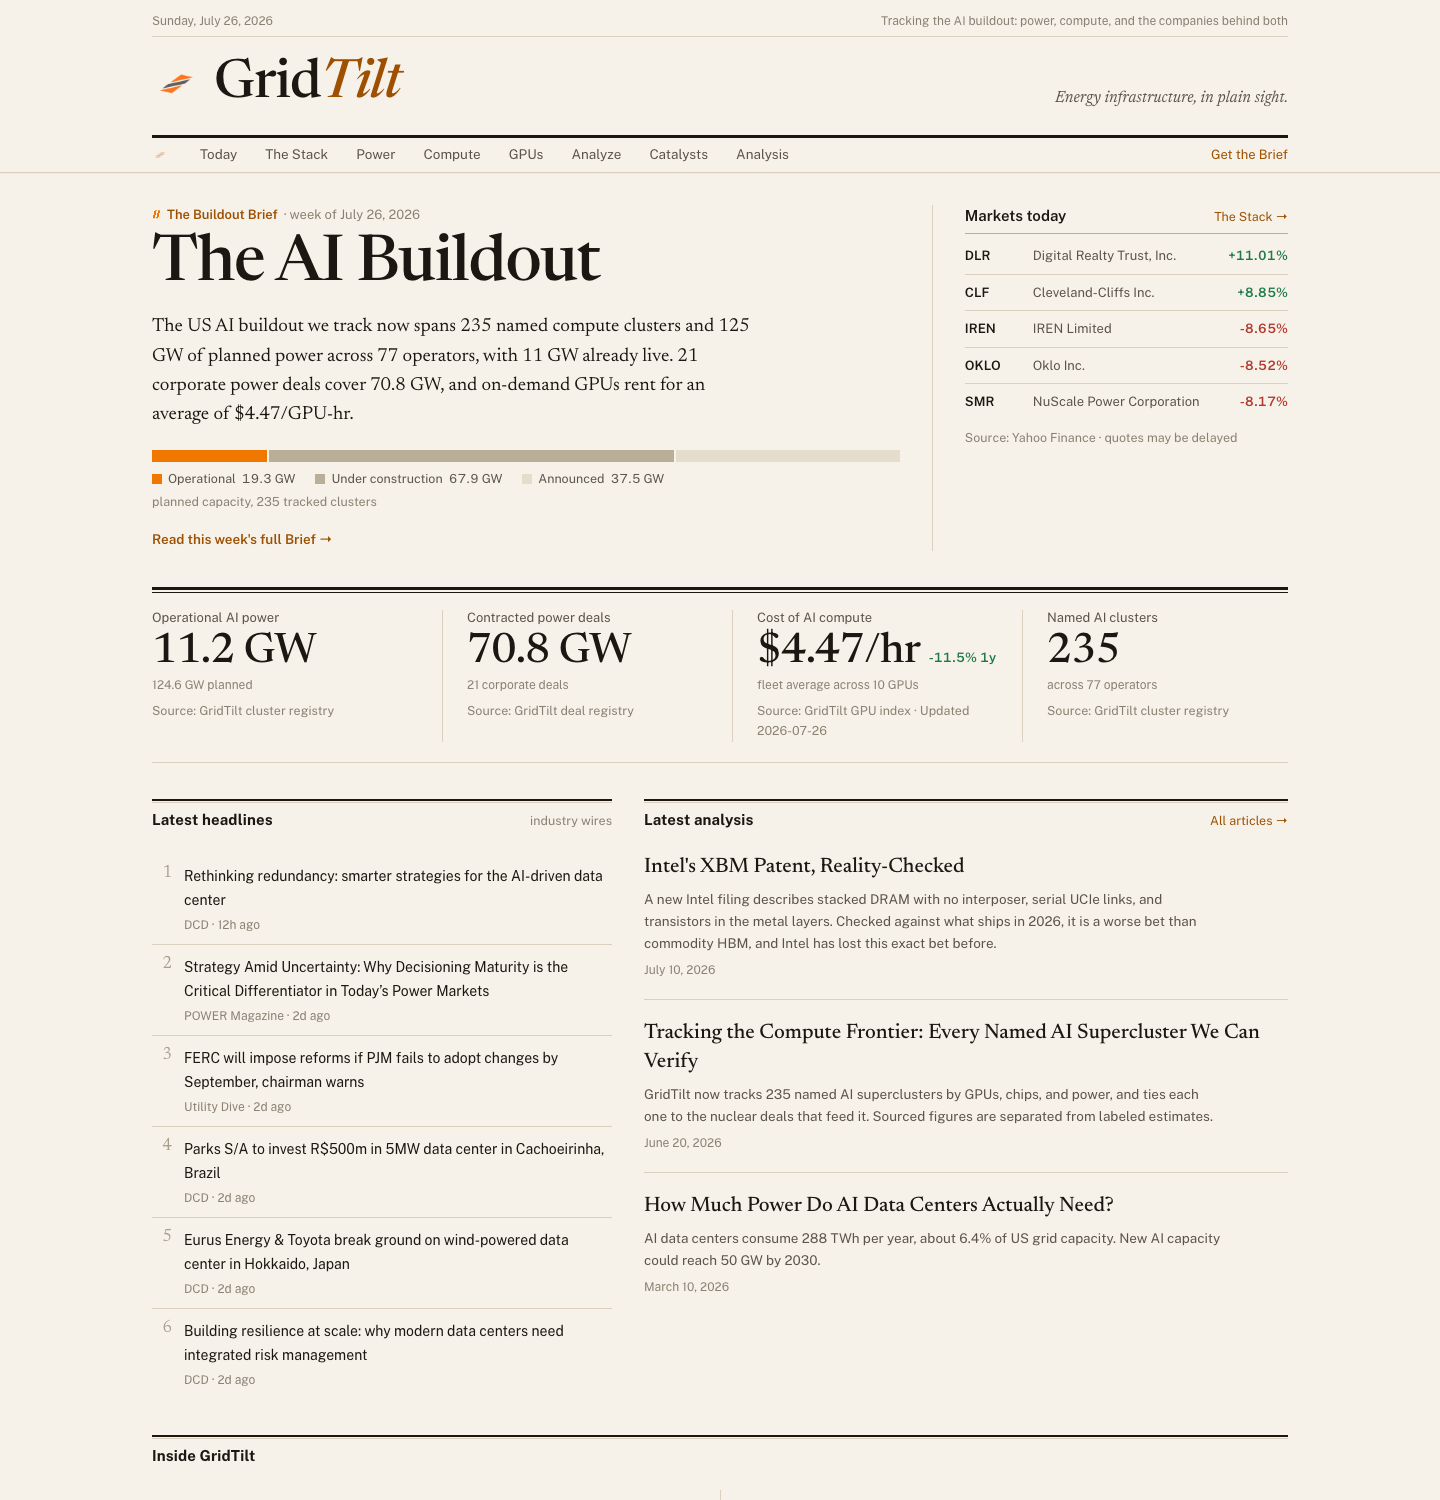
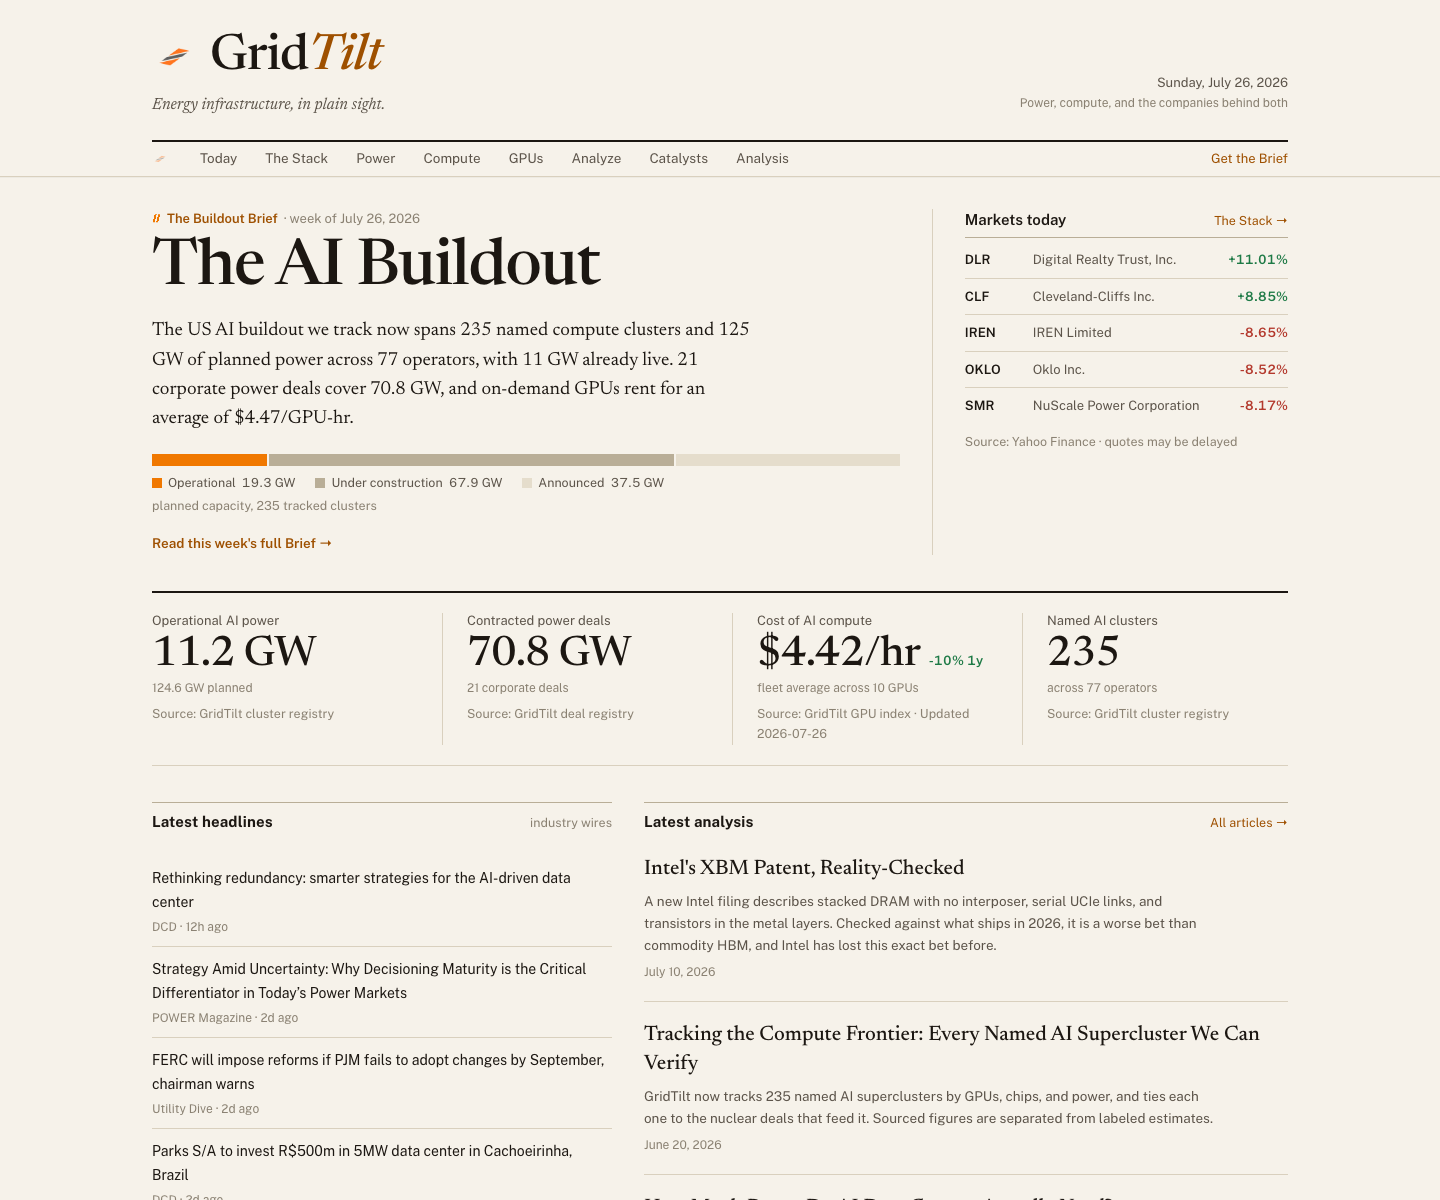
design: pull back the newspaper ornament, keep the scale
Double Scotch rules become single clean strokes, dateline bar removed
(date sits quietly right of the brand), headline folio numerals dropped,
section index renamed. Display scale, optical sizing, tilt glyph, and
column dividers stay.

diff --git a/client/src/components/masthead.tsx b/client/src/components/masthead.tsx
@@ -33,17 +33,10 @@ export function Masthead() {
 
   return (
     <header data-testid="masthead">
-      {/* Brand block: scrolls away. Dateline rides a hairline above the
-          wordmark; a Scotch rule closes the block, broadsheet style. */}
+      {/* Brand block: scrolls away. One confident ink rule closes it. */}
       <div>
         <div className="mx-auto max-w-[1200px] px-5 sm:px-8">
-          <div className="flex items-baseline justify-between gap-4 border-b border-rule pt-3 pb-1.5 text-[12px] text-ink-muted">
-            <span>{dateline()}</span>
-            <span className="hidden sm:inline">
-              Tracking the AI buildout: power, compute, and the companies behind both
-            </span>
-          </div>
-          <div className="flex items-end justify-between gap-4 pt-4 pb-4 sm:pt-5 sm:pb-5">
+          <div className="flex items-end justify-between gap-4 pt-6 pb-5 sm:pt-8 sm:pb-6">
             <div className="min-w-0">
               <Link
                 href="/"
@@ -53,21 +46,25 @@ export function Masthead() {
                 <img
                   src={logoPath}
                   alt=""
-                  className="h-9 w-9 sm:h-12 sm:w-12 select-none"
+                  className="h-9 w-9 sm:h-11 sm:w-11 select-none"
                   draggable={false}
                 />
-                <span className="font-serif font-medium text-[40px] sm:text-[54px] leading-none tracking-[-0.02em] text-ink">
+                <span className="font-serif font-medium text-[38px] sm:text-[50px] leading-none tracking-[-0.02em] text-ink">
                   Grid
                   <em className="italic text-brand-ink">Tilt</em>
                 </span>
               </Link>
+              <p className="mt-2 font-serif italic text-[15px] sm:text-[16px] leading-snug text-ink-secondary">
+                Energy infrastructure, in plain sight.
+              </p>
             </div>
-            <p className="hidden sm:block shrink-0 pb-1.5 font-serif italic text-[16px] leading-snug text-ink-secondary">
-              Energy infrastructure, in plain sight.
-            </p>
+            <div className="hidden sm:block shrink-0 pb-1 text-right">
+              <p className="text-[13px] text-ink-secondary">{dateline()}</p>
+              <p className="mt-0.5 text-[12px] text-ink-muted">
+                Power, compute, and the companies behind both
+              </p>
+            </div>
           </div>
-        </div>
-        <div className="mx-auto max-w-[1200px] px-5 sm:px-8">
           <div className="rule-scotch" />
         </div>
       </div>

diff --git a/client/src/components/home/front-page.tsx b/client/src/components/home/front-page.tsx
@@ -275,24 +275,19 @@ export function FrontPage() {
         >
           {news && news.length > 0 ? (
             <ul>
-              {news.slice(0, 6).map((n, i) => (
-                <li key={n.url} className="flex gap-3 border-b border-rule py-2.5 last:border-b-0">
-                  <span className="w-5 shrink-0 pt-px text-right font-serif text-[17px] leading-none text-ink-faint tnum" aria-hidden>
-                    {i + 1}
-                  </span>
-                  <span className="min-w-0">
-                    <a
-                      href={n.url}
-                      target="_blank"
-                      rel="noopener noreferrer"
-                      className="text-[14px] leading-snug text-ink no-underline hover:text-brand-ink"
-                    >
-                      {n.headline}
-                    </a>
-                    <p className="mt-1 text-[12px] text-ink-muted">
-                      {n.source} · {fmtTimeAgo(n.publishedAt)}
-                    </p>
-                  </span>
+              {news.slice(0, 6).map((n) => (
+                <li key={n.url} className="border-b border-rule py-2.5 last:border-b-0">
+                  <a
+                    href={n.url}
+                    target="_blank"
+                    rel="noopener noreferrer"
+                    className="text-[14px] leading-snug text-ink no-underline hover:text-brand-ink"
+                  >
+                    {n.headline}
+                  </a>
+                  <p className="mt-1 text-[12px] text-ink-muted">
+                    {n.source} · {fmtTimeAgo(n.publishedAt)}
+                  </p>
                 </li>
               ))}
             </ul>
@@ -332,9 +327,9 @@ export function FrontPage() {
         </RuleSection>
       </div>
 
-      {/* Section index: a compact ruled "Inside" listing with the tilt
-          glyph as the bullet, two columns with a column rule */}
-      <RuleSection head="Inside GridTilt" testId="front-directory">
+      {/* Section index: compact ruled listing, tilt glyph as the bullet,
+          two columns with a column rule */}
+      <RuleSection head="Sections" testId="front-directory">
         <div className="grid grid-cols-1 sm:grid-cols-2 sm:divide-x sm:divide-rule">
           {[SECTION_DIRECTORY.slice(0, 4), SECTION_DIRECTORY.slice(4)].map((col, ci) => (
             <div key={ci} className={ci === 1 ? "sm:pl-8" : "sm:pr-8"}>

diff --git a/client/src/index.css b/client/src/index.css
@@ -305,34 +305,16 @@ html {
   }
 }
 
-/* The house rule system. Rules carry meaning by weight:
-   - scotch (thick over thin, the classic newspaper pair) = page and
-     masthead level
-   - thickthin = section openings
+/* The house rule system, modern cut. Weight still carries meaning, with
+   clean single strokes only:
+   - rule-scotch (historical name) = page-level: one confident ink stroke
+   - rule-thickthin (historical name) = section openings: strong hairline
    - hairline (border-rule) = rows and internal divisions */
 .rule-scotch {
-  border-top: 3px solid var(--ink);
-  position: relative;
-}
-.rule-scotch::after {
-  content: "";
-  position: absolute;
-  top: 2px;
-  left: 0;
-  right: 0;
-  border-top: 1px solid var(--ink);
+  border-top: 2px solid var(--ink);
 }
 .rule-thickthin {
-  border-top: 2px solid var(--ink);
-  position: relative;
-}
-.rule-thickthin::after {
-  content: "";
-  position: absolute;
-  top: 1px;
-  left: 0;
-  right: 0;
-  border-top: 1px solid var(--rule);
+  border-top: 1px solid var(--rule-strong);
 }
 
 /* The tilt mark as a recurring glyph: two slanted strokes in brand orange.
